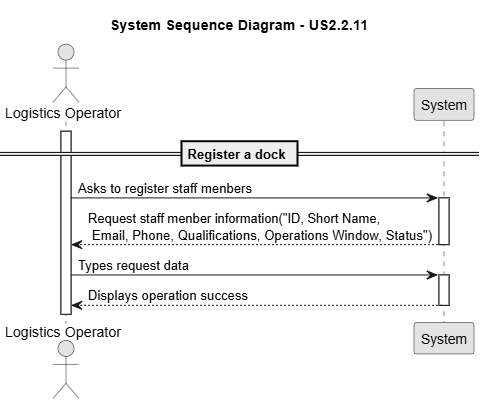
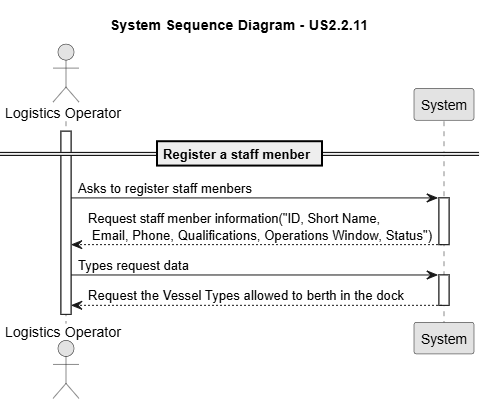
Readme of US2.2.11 started #12

Changed region(s): [[0.3086, 0.3259, 0.679, 0.4148], [0.1852, 0.7111, 0.8333, 0.7407]]

diff --git a/docs/sprintA/us2.2.11/readme.md b/docs/sprintA/us2.2.11/readme.md
@@ -1,36 +1,49 @@
-# US 2.2.3
+# US 2.2.11
 
 ## 1. Context
 
-*Ports operate with multiple docks that accommodate vessels of different sizes and characteristics. To ensure proper port management, the system must allow the registration and update of dock information, including their identifiers, physical characteristics, and the vessel types they support.*
+*Since many resources cannot function autonomously, the system must incorporate operating staff management information to support realistic scheduling and allocation. 
+Despite their identification and contact data such as the mecanographic number, short name, email and phone, it is necessary to capture: Operations Window, Qualification, Current Status.*
 
 ## 2. Requirements
 
-**US 2.2.3** As a Port Authority Officer, I want to register and update docks, so that the system accurately reflects the docking capacity of the port.
+**US 2.2.3** As a Logistics Operator, I want to register and manage operating staff members (create, update, deactivate), so that the system can accurately reflect staff availability and ensure that only qualified personnel are assigned to resources during scheduling.
 
 **Acceptance Criteria:**
 
-- A dock record must include a unique identifier, name/number, location within the port, and physical characteristics (e.g., length, depth, max draft).
+- Each staff member must have a unique mecanographic number (ID), short name, contact details (email, phone),  qualifications, operational window, and current status (e.g., available, unavailable).
 
-- The officer must specify the vessel types allowed to berth there.
+- Deactivation/reactivation must not delete staff data but preserve it for audit and historical planning purposes.
 
-- Docks must be searchable and filterable by name, vessel type, and location.
+- Staff members must be searchable and filterable by id, name, status, and qualifications.
 
 
 **Dependencies/References:**
 
-*There is a dependency with US2.2.1, since a vessel type must exist so it can be assigned on the record.*
+*There is a dependency with US2.2.13, a qualification must be already registered in the system so i can assigned them to a staff menber.*
 
 **Forum Insight:**
 
->> Regarding this user story, can you confirm if a dock supports only one vessel type?
+>> In US 2.2.11, the process of updating a staff member is mentioned. With the introduction of this action, a few questions have arisen:
+When updating a staff member, can all previously entered information be modified?
+Is it possible to leave a staff member’s record incomplete — for example, register some information now and complete the rest later — given that this could occur with the update action?
+When a staff member is registered, do they automatically become available (with the status "available" )?
 > 
-> No! That is clearly wrong. An acceptance criteria states that "The officer must specify the vessel types allowed to berth there.". On a given dock may berth several vessel types (e.g. Feeder and Panamax).
+> The mecanographic number cannot be modified. Everything else might be modified.
+When registering a staff member, (s)he must be, by default, available.
+Mandatory information comprehends, the mecanographic number , short name, contacts and status.
 
 
 ## 3. Analysis
 
 Record Registration
 
-![System Sequence Diagram ](images/system-sequence-diagram-US2.2.3.png)
+![System Sequence Diagram ](images/system-sequence-diagram-US2.2.11.png)
 
+Record Update
+
+![System Sequence Diagram ](images/system-sequence-diagram-US2.2.11(1).png)
+
+Record Deactivation
+
+![System Sequence Diagram ](images/system-sequence-diagram-US2.2.11(2).png)